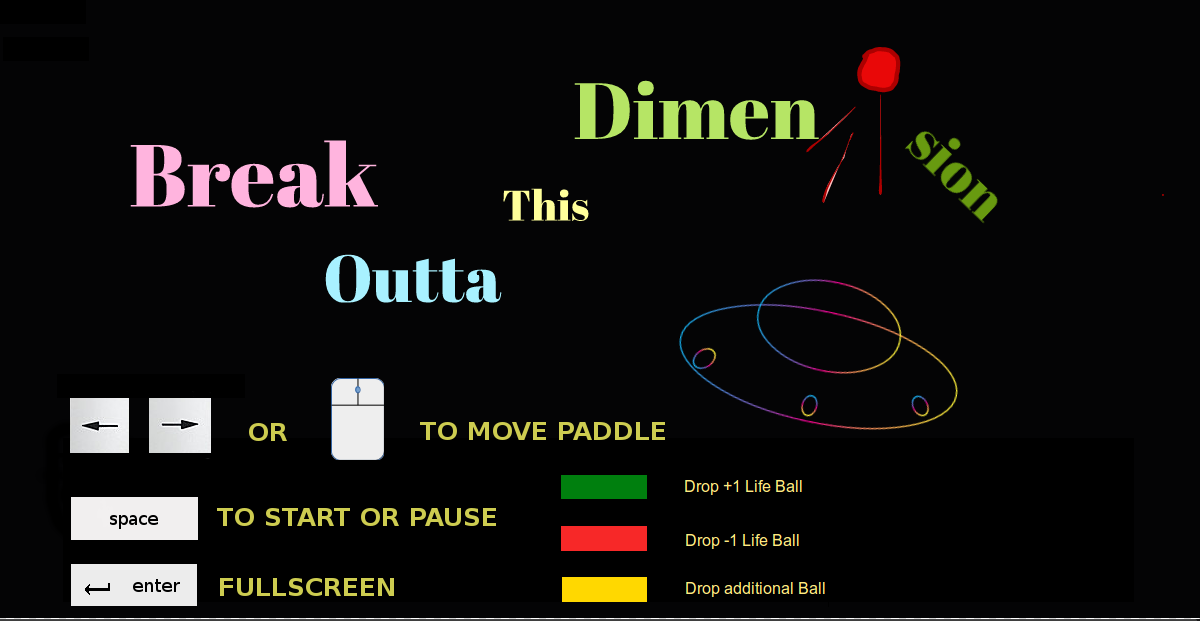
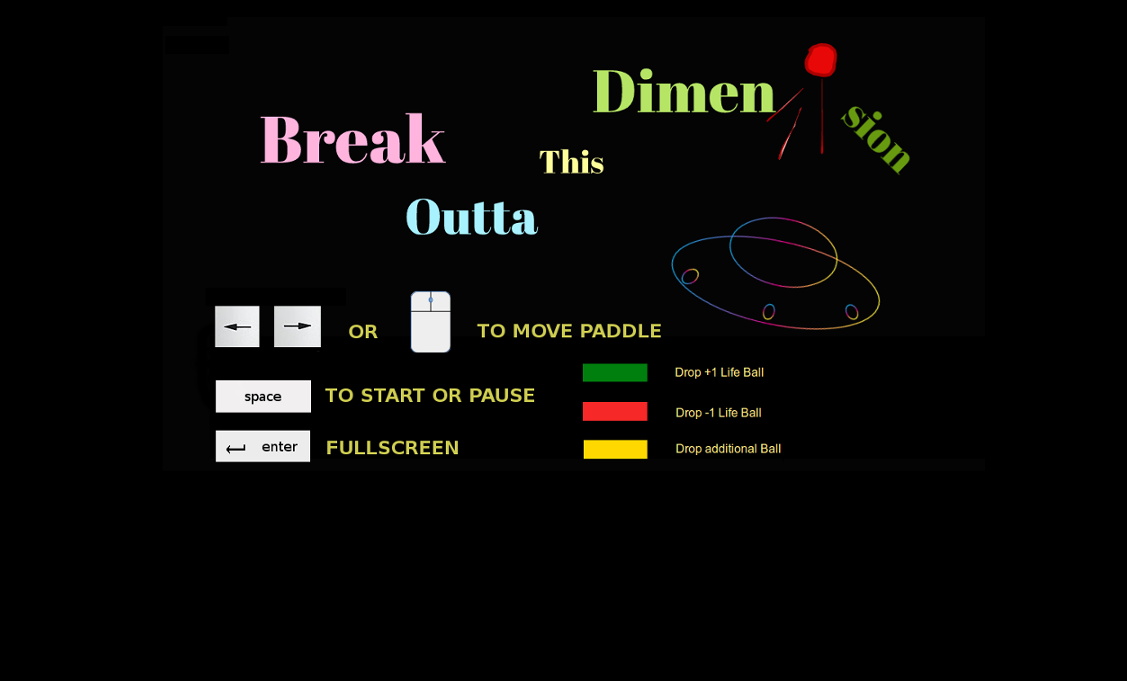
updated landing page, fixed canvas height and width, adjusted bricks location

diff --git a/lib/bricks.js b/lib/bricks.js
@@ -1,10 +1,10 @@
 var brickRowCount = 7;
 var brickColumnCount = 10;
-var brickWidth = 75;
-var brickHeight = 20;
-var brickPadding = 10;
-var brickOffsetTop = 80;
-var brickOffsetLeft = 80;
+var brickWidth = canvas.width * 0.06;
+var brickHeight = canvas.height * 0.04;
+var brickPadding = canvas.width * 0.01;
+var brickOffsetTop = canvas.height * 0.1;
+var brickOffsetLeft = (canvas.width - (brickWidth * 10 + brickPadding * 9)) / 2;
 var dropAdditionalBall = false;
 var dropExtraLifeBall = false;
 var dropGrenadeBall = false;

diff --git a/index.html b/index.html
@@ -7,8 +7,8 @@
   </head>
   <body>
     <div class="wrapper">
-      <canvas id="canvas" width="1000" height="550" visibility="hidden"></canvas>
-      <canvas id="welcome-canvas" width="1000" height="550" visibility="visible"></canvas>
+      <canvas id="canvas" visibility="hidden"></canvas>
+      <canvas id="welcome-canvas" visibility="visible"></canvas>
     </div>
 
     <script src="lib/canvas.js"></script>

diff --git a/lib/canvas.js b/lib/canvas.js
@@ -1,5 +1,9 @@
 var canvas = document.getElementById("canvas");
+canvas.width = document.body.clientWidth;
+canvas.height = document.body.clientHeight;
 var ctx = canvas.getContext("2d");
 
 var canvasWelcome = document.getElementById("welcome-canvas");
+canvasWelcome.width = document.body.clientWidth;
+canvasWelcome.height = document.body.clientHeight;
 var ctx2 = canvasWelcome.getContext("2d");

diff --git a/assets/stylesheets/application.css b/assets/stylesheets/application.css
@@ -5,7 +5,11 @@
 
 * { margin: 0; padding: 0; }
 
-html, body { width: 100%; height: 100% }
+html, body {
+  width: 95%; height: 95%;
+  margin: 0.5% auto;
+  overflow: hidden;
+}
 
 .wrapper {
   position: relative;
